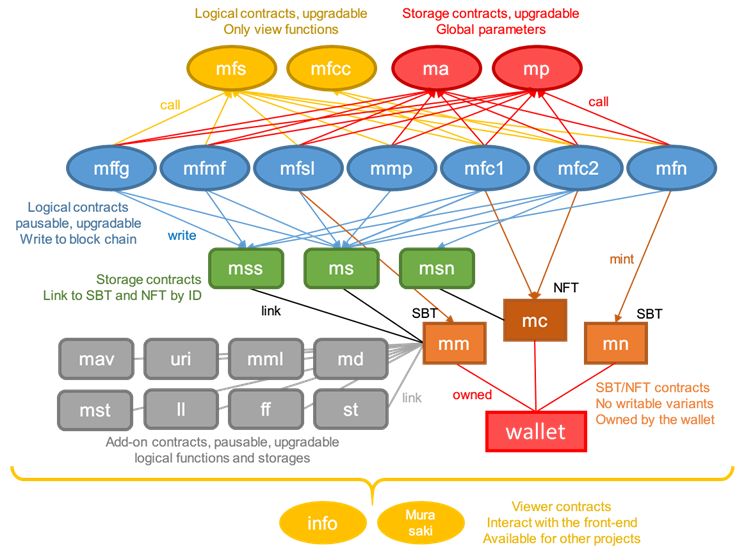
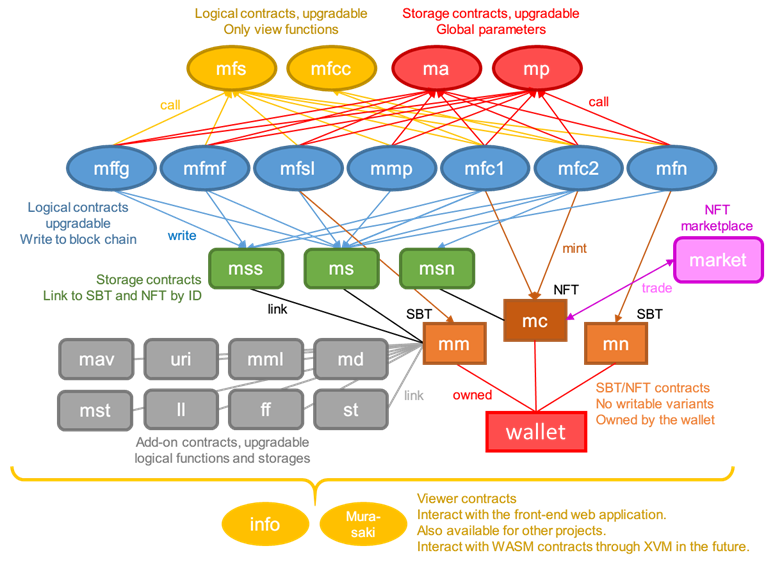
@

diff --git a/index.html b/index.html
@@ -249,6 +249,10 @@ Aside from <b><a href="#staking">the Dapps Staking Bonus</a></b>, we have not im
 
 <h3 id="attention">Attentions &#x1F6A8;</h3>
 
+<p>
+Before starting the game, please take note of the following precautions:
+</p>
+
 <ul>
 <li>Murasaki-san is a <b>SBT</b>, not a NFT, so you can <b>only summon once per wallet</b>, and you <b>cannot transfer or sell it.</b> On the other hand, you can buy and sell crafted item NFTs.
 <li>If you neglect to take care of your Murasaki-san for a long time (<b>about a month</b>), Murasaki-san will become petrified, and you will need some <b>additional cost</b> to cure.
@@ -546,14 +550,14 @@ Having the cat cushion is necessary to send cat-mail, but <b>even if you don't h
 </details>
 
 <!---### stroll --->
-<details><summary>About Strolling</summary>
+<details><summary>About Strolling  -comming soon-</summary>
 <p>
 comming soon.
 </p>
 </details>
 
 <!---### practice --->
-<details><summary>About Practicing</summary>
+<details><summary>About Practicing  -comming soon-</summary>
 <p>
 comming soon.
 </p>
@@ -566,64 +570,171 @@ comming soon.
 <!--- More Details --->
 
 <h3 id="detailedspecific">More Details &#x1f9ec;</h3>
-<p><b><font color="blue">--- Under construction ---</font></b></p>
 
-<details><summary>Contracts</summary>
+
+<!---### contracts --->
+
+<details>
+<summary>Contracts</summary>
+<p>
+The project is currently implemented as a complex set of contracts consisting of one NFT contract, two SBT contracts, five storage contracts, seven function contracts, and several add-on contracts.
+</p>
+
+<p>
+Here is an overview of each contract:
+</p>
+
+<p class="lineHeight8">
 <img width="700" src="src/png/fig_contracts.png" />
+<font size="-2">
+<b>Abbreviations:</b> mfs:Murasaki_Function_Share, mfcc:Murasaki_Function_Crafting_Codex, ma:Murasaki_Address, mp:Murasaki_Parameter, mffg:Murasaki_Function_Feeding_and_Grooming, mfmf:Murasaki_Function_Mining_and_Farming, mfsl:Murasaki_Function_Summon_and_Levelup, mmp:Murasaki_Music_Practice, mfc1:Murasaki_Function_Crafting1, mfc2:Murasaki_Function_Crafting2, mfn:Murasaki_Function_name, mss:Murasaki_Storage_Score, ms:Murasaki_Storage, msn:Murasaki_Storage_Nui, mm:Murasaki_Main, mc:Murasaki_Craft, mn:Murasaki_Name, market:Murasaki_Market_Item, mav:Murasaki_Achievement, uri:Murasaki_tokenURI, mml:Murasaki_Mail, md:Murasaki_Dice, mst:Murasaki_Staking, ll:Murasaki_Lootlike, ff:Fluffy_Festival, st:Strolling, info:Murasaki_Info, Murasaki:Murasakisan
+</font>
+</p>
+
+<p>
+All contracts are linked and managed through the summoner ID assigned to the Murasaki-san SBT.
+Function contracts are individually replaceable, and bug fixes, balance adjustments, and other game upgrades can be implemented by replacing or updating them. Add-on contracts are created as needed when adding new features for the gameplay.
+</p>
+
+<p>
+Due to the complexity of the project's contract system, a viewer contract has been prepared to provide convenient access to major parameters of Murasaki-san. The viewer contract follows the concept of web3 and is available for anyone to use without any permissions. It is also designed to be referenced in the future endeavors, such as the upcomming next product that we plan to create using WASM. For more detailed information about the viewer contract, please refer to the "<a href="#developer">For the Developers</a>" session.
+</p>
+
 </details>
 
-<details><summary>Status Formulas</summary>
-STR,DEX:<br>
-INT:<br>
-LUK and Critical:<br>
+
+<!---### formula --->
+
+<details>
+
+<summary>Calculation Formulas</summary>
+
+<p>
+The calculation formula regarding the effect of each status value on the results of each action is as follows:
+</p>
+
+<p>
+<b>Feeding efficacy:</b><br>
+<font size="-0.5">
+&nbsp;&nbsp;&nbsp;Exp Gained = (500 * (100 - Satiety) / 100) * ExpBoost<br>
+&nbsp;&nbsp;&nbsp;ExpBoost = Boost_from_FlowerWreath * Boost_from_FluffyDoll
+</font>
+</p>
+
+<p>
+<b>Grooming efficacy:</b><br>
+<font size="-0.5">
+&nbsp;&nbsp;&nbsp;Exp Gained = (3000 * (100 - Happy * Coefficient) / 100) * ExpBoost<br>
+&nbsp;&nbsp;&nbsp;ExpBoost = Boost_from_FlowerWreath * Boost_from_FluffyDoll<br>
+&nbsp;&nbsp;&nbsp;Coefficient = (Now - LastGroomingTime - WorkingTime) / (Now - LastGroomingTime)
+&nbsp;&nbsp;&nbsp;Working: Mining, Farming, Crafting, Strolling, Practicing</font>
+</p>
+
+<p>
+<b>Mining efficacy:</b><br>
+<font size="-0.5">
+&nbsp;&nbsp;&nbsp;Mining Coins = (SEC / 86400 * 1000) * ( 1 + (STR + Lv + STR_item) * 5/100 )
+</font>
+</p>
+
+<p>
+<b>Farming efficacy:</b><br>
+<font size="-0.5">
+&nbsp;&nbsp;&nbsp;Farming Leaves = (SEC / 86400 * 1000) * ( 1 + (DEX + Lv + DEX_item) * 5/100 )
+</font>
+</p>
+
+<p>
+<b>Crafting efficacy:</b><br>
+<font size="-0.5">
+&nbsp;&nbsp;&nbsp;Crafting Sec = item_DC * (INT + Lv + INT_item - 400) / (item_Lv * 300) * 86400 / 1000<br>
+&nbsp;&nbsp;&nbsp;Crafting Sec >= [Sec Limit set for each item]
+</font>
+</p>
+
+<p>
+<b>Critical efficacy:</b><br>
+<font size="-0.5">
+&nbsp;&nbsp;&nbsp;Conditional Expression: D100 <= LUK + FluffyScore/100 + RolledDice/10<br>
+&nbsp;&nbsp;&nbsp;Success: gain x2 Exp, earn x2 Coin/Leaf, craft uncommon item
+</font>
+</p>
+
 </details>
 
-<details><summary>Buyback Treajury</summary>
-blah-blah-blah...
+
+<!---### buyback --->
+
+<details>
+
+<summary>Buyback Treajury</summary>
+
+<p>
+The buyback system was designed to ensure that players can sell the NFTs of this project to the treasury at a fixed price at any time, thus constantly guaranteeing the asset value of the NFTs in this project.
+</p>
+
+<p>
+The developers believe that continuing to play the game solely for monetary gain can be somewhat burdensome. Lucky players may be able to sell their earned NFTs at a high price and make some profits. However, this can create temporary and sometimes harmful bubbles, disadvantaging unlucky players or latecomers.
+</p>
+
+<p>
+On the other hand, the developers also understand the enjoyment of having NFTs with asset value.
+</p>
+
+<p>
+To improve on this goal, the developers have implemented an automated buyback system in this project. Approximately half of the starting fee paid by the player is immediately sent to the buyback treasury. Players can receive a fixed-price buyback at any time by burning the NFTs of this project. Item NFTs that require more resources to craft in the game are assigned higher buyback prices. Additionally, the buyback prices set for each item gradually increase over time.
+</p>
+
+<p>
+<b>Buyback price calculation:</b><br>
+<font size="-0.5">
+&nbsp;&nbsp;&nbsp;Price = Resource / 1074560 * AmountPerPlayer<br>
+&nbsp;&nbsp;&nbsp;Resouce = [The sum of coins and leaves required for crafting]<br>
+&nbsp;&nbsp;&nbsp;AmountPerPlayer = [Set at 45% of the starting price and increasing]
+</font>
+</p>
+
+<p>
+In other words, the minimum price of each NFTs in this project is determined, and this minimum price (buyback price) never decreases but always increase over time. With each acquisition of NFTs through ongoing gameplay, the player's asset value increases steadily, and it also continues to increase by holding the NFTs. Since the buyback treajury always holds enough to buyback all items from all players, there will never be a situation where the reasury runs out and later players cannot receive buybacks.
+</p>
+
+<p>
+<center>
+<img width="400" src="src/png/fig_price.png" />
+<figcaption>
+The price trend model secured by the buyback system for NFTs. The rate of increase is not very high, but the price never decreases and gradually rises over time.
+</figcaption>
+</center>
+</p>
+
+<p>
+Regarding the rate of increase in the buyback price, developers plan to tradually raise it, but developers don't have specific calculations for the appropriate rate of increase at the moment. The buyback price will increase faster as additional funds flow into this project (see the Economy Details session). As an example, developers are considering a rate of increase of approximately 1-3% per month. Additionally, if there are many dropout players who have stopped playing the game, the buyback prices for players who continue to play will be more likely to increase (the buyback tokens allocated for dropout players will be reallocated to the remaining players). On the other hand, interestingly, a large influx of new players is expected to make it difficult to increase the buyback price (as the buyback price is equivalent ot the new inflow value divided by the total active players).
+</p>
+
+<p>
+Of course, all players have the option to sell NFTs on the marketplace insted of burning them in the buyback system. It is likely that players can sell NFTs at higher prices on the marketplace compared to buyback price. The buyback system can be seen as a defensive mechanism to prevent the price of NFTs from plummeting in case there are no buyers.
+</p>
+
+<p>
+This buyback system is somewhat experimental, and its acceptance by players will only be known after it has been operational for a while. The developers will continuously explore areas for improvement.
+</p>
+
 </details>
 
-<details><summary>Economy Details</summary>
+
+<!---### economy --->
+
+<details>
+
+<summary>Economy Details -comming soon-</summary>
+
+<p>
 Token Currency<br>
 Buyback System<br>
 Inflation rate<br>
+</p>
+
 </details>
-
-<br>
-
-
-<!--- Earn --->
-
-<h3 id="earn">Play to Earn...? &#x1fa99;</h3>
-
-<p>
-<b><font color="blue">--- We have not applied for Builder's Program yet ---<br>
---- The strategy of Buyback system could be changed ---</font></b>
-</p>
-
-<font color="darkgray">
-
-<p>
-<b>Don't expect too much.<br></b>
-We will NOT issue our own tokens that can be pumped and dumped.
-</p>
-
-<p>
-Based on market principles, item NFT may or may not be priced high. Sometimes it may sell for a high price on the marketplace. But we think these are always temporary.
-</p>
-
-<p>
-We think playing games only to earn money is kind of a pain. But we also understand it is fun to realize that the NFTs you own have some value.
-</p>
-
-<p>
-To improve on this goal, we have devised a buyback system. Half of the mint cost is immediately sent to the buyback vault, which buys item NFTs for a fixed amount at any time. This minimum price is by no means a high amount, but will never fall, and will rise little by little as the game economy expands.
-</p>
-
-<p>
-It may be difficult to make money using the Buyback System, but it will prove that the NFTs we have are not worthless.
-</p>
-
-</font>
 
 <br>
 
@@ -633,7 +744,19 @@ It may be difficult to make money using the Buyback System, but it will prove th
 <h3 id="astar">Why Astar? &#9203;</h3>
 
 <p>
-We...
+<b>dApps Staking</b><br>
+</p>
+
+<p>
+<b>XVM</b><br>
+</p>
+
+<p>
+<b>Gas Fee</b><br>
+</p>
+
+<p>
+<b>Top of the Polkadot</b><br>
 </p>
 
 <br>
@@ -802,8 +925,8 @@ Yay! We have summoned our Murasaki-san and have crafted some items! Say Cheese!
 <li>The mint price (starting price) for unlimited SBT will be adjusted to never fall below $10 in US dollars.
 <li>Holding NFT or SBT of this project does not entitle you to any financial asset diviends directly.
 <li>There are currently no plans to issue any cryptocurrency tokens following the ERC-20 or equivalent standard for this project.
-<li>The developer receives a 10% donation of the tokens paid by users as a game fee and has no ownership over the remaining 90% of the fees, which are either staked or held on the blockchain.
-<li>This project does not have any operators or managers, and all program operations are executed by on-chain smart contracts.
+<li>This project is an experimental endeavor in Web3 and its primary goal is not profit-oriented. The developer receives a 10% donation of the tokens paid by users as a game fee and has no ownership over the remaining 90% of the fees, which are either staked or held on the blockchain.
+<li>This project does not have any "operators" or "managers", and all program operations are executed by on-chain smart contracts.
 </ul>
 
 <p>

diff --git a/src/css/style.css b/src/css/style.css
@@ -92,3 +92,7 @@ nav a.current {
 .textMiddle{
     vertical-align: middle;
 }
+
+.lineHeight8{
+    line-height: 8px;
+}
